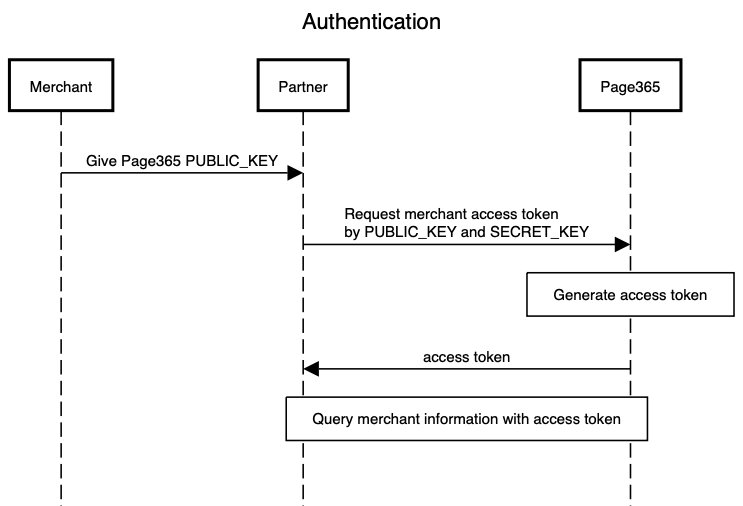
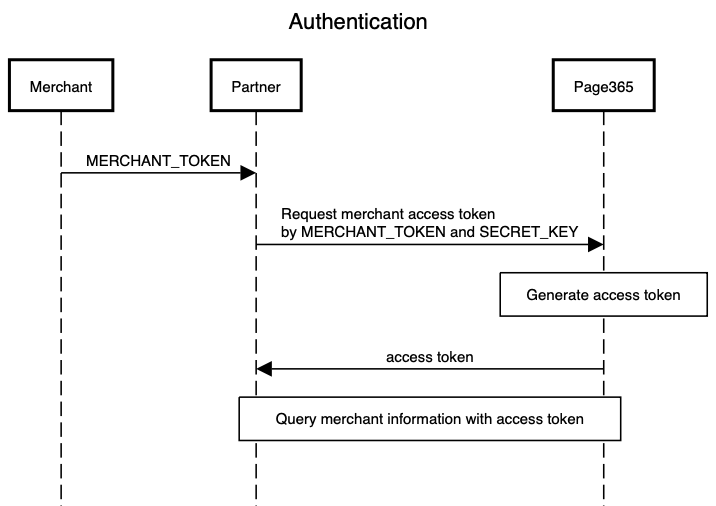
deploy: 9682d09fd8188762947f4f8d4ab73d8abc472fe3

diff --git a/index.html b/index.html
@@ -3,7 +3,7 @@
   <head>
     <meta charset="utf-8" />
     <meta name="viewport" content="width=device-width, initial-scale=1.0" />
-    <title>Page365 API | Test github action | API Reference</title>
+    <title>Page365 API | API Reference</title>
     <link rel="stylesheet" href="stylesheets/foundation.min.css" />
     <link rel="stylesheet" href="stylesheets/spectacle.min.css" />
     <script src="https://code.jquery.com/jquery-2.1.4.min.js"></script>
@@ -17,7 +17,7 @@
           <span aria-hidden="true">×</span>
         </button>
         <div id="logo">
-          <img src="images/logo.png" title="Page365 API | Test github action" /> </div>
+          <img src="images/logo.png" title="Page365 API" /> </div>
         <nav id="nav" role="navigation">
           <h5>Topics</h5>
           <a href="#introduction">Introduction</a>
@@ -89,14 +89,14 @@
         </button>
         <div class="example-box doc-content"></div>
         <article>
-          <h1 class="doc-title">Page365 API | Test github action
+          <h1 class="doc-title">Page365 API
             <span>API Reference</span>
           </h1>
           <div id="introduction" data-traverse-target="introduction">
             <div class="doc-row">
               <div class="doc-copy">
-                <p>Welcome to Page365 API. This standard allows you to become a supported partner, manage order and inventory for over 300,000 merchants on the Page365 platform.</p>
-                <p>API is implemented in standard GraphQL protocol, and we do not yet have language libraries available. You can view examples for how to invoke the requests in the dark area to the right.</p>
+                <p>Welcome to Page365 API. Page365 allow access to merchant information on Page365 ecosystem by external software (API) for the greater service and merchant convenience.</p>
+                <p>This API use GraphQL as standard protocol. Implement by follow document below.</p>
               </div>
               <div class="doc-examples">
                 <section>
@@ -114,7 +114,7 @@ https://api.page365.com/v1.0/graphql
           <h1 id="tag-Registation" class="swagger-summary-tag" data-traverse-target="tag-Registation">Registation</h1>
           <div class="tag-description doc-row">
             <div class="doc-copy">
-              <p>Create your app profile and use it as main account to communicate with Page365. After your create profile request send, Please contact us for approvng your profile and we will send you a SECRET_KEY. Which your software will use it as credential for granting merchant token</p>
+              <p>Before using API, you need to register your app profile and get approve by Page365 and we will send you SECRET_KEY for using in authentication process as flowchart below.</p>
               <div class="diagram">
                 <img src="images/registration.png" title="registration.png" /> </div>
             </div>
@@ -134,7 +134,7 @@ https://api.page365.com/v1.0/graphql
             <div class="doc-row">
               <div class="doc-copy">
                 <section class="swagger-operation-description">
-                  <p>Create a profile which you will use to communicate with Page365</p>
+                  <p>Create profile for using in authentication process and grant permission to fetch merchant information. These argument some will be display to merchant for notify them that your integration is available such as name, some will be use for report and notify an update (deprecate API) such as phone and email</p>
                 </section>
               </div>
             </div>
@@ -275,7 +275,9 @@ https://api.page365.com/v1.0/graphql
           <h1 id="tag-Authentication" class="swagger-summary-tag" data-traverse-target="tag-Authentication">Authentication</h1>
           <div class="tag-description doc-row">
             <div class="doc-copy">
-              <p>By query merchant information you need to grant access token which unique per merchant (1-to-1).</p>
+              <p>After profile approved, Page365 will send you SECRET_KEY which will be use as part of access token creating process. Access token is needed for every request as an identifier and each merchant will use difference unique access token even from the same profile.</p>
+              <p>In access token creation process you will need 2 parameters (SECRET_KEY, MERCHANT_TOKEN) you can find MERCHANT_TOKEN from each merchant directly and</p>
+              <p>PROVIDER NEEDS TO KEEP MERCHANT_TOKEN IN PRIVATE AND NOT ALLOW TO PUBLIC TOKEN TO OTHER</p>
               <div class="diagram">
                 <img src="images/authentication.png" title="authentication.png" /> </div>
             </div>
@@ -295,7 +297,7 @@ https://api.page365.com/v1.0/graphql
             <div class="doc-row">
               <div class="doc-copy">
                 <section class="swagger-operation-description">
-                  <p>Generate access token for accessing merchant information</p>
+                  <p>Generate access token for using in identification when calling API</p>
                 </section>
               </div>
             </div>
@@ -426,7 +428,7 @@ https://api.page365.com/v1.0/graphql
             <div class="doc-row">
               <div class="doc-copy">
                 <section class="swagger-operation-description">
-                  <p>All product owned by mechant</p>
+                  <p>Fetch all product information owned by merchant</p>
                 </section>
               </div>
             </div>
@@ -670,7 +672,7 @@ https://api.page365.com/v1.0/graphql
             <div class="doc-row">
               <div class="doc-copy">
                 <section class="swagger-operation-description">
-                  <p>Eligible product owned by mechant</p>
+                  <p>Fetch product information by id</p>
                 </section>
               </div>
             </div>
@@ -848,7 +850,7 @@ https://api.page365.com/v1.0/graphql
             <div class="doc-row">
               <div class="doc-copy">
                 <section class="swagger-operation-description">
-                  <p>All product category owned by mechant</p>
+                  <p>Fetch all product category information owned by merchant</p>
                 </section>
               </div>
             </div>
@@ -1036,7 +1038,7 @@ https://api.page365.com/v1.0/graphql
             <div class="doc-row">
               <div class="doc-copy">
                 <section class="swagger-operation-description">
-                  <p>Eligible product category owned by mechant</p>
+                  <p>Fetch product category information by id</p>
                 </section>
               </div>
             </div>
